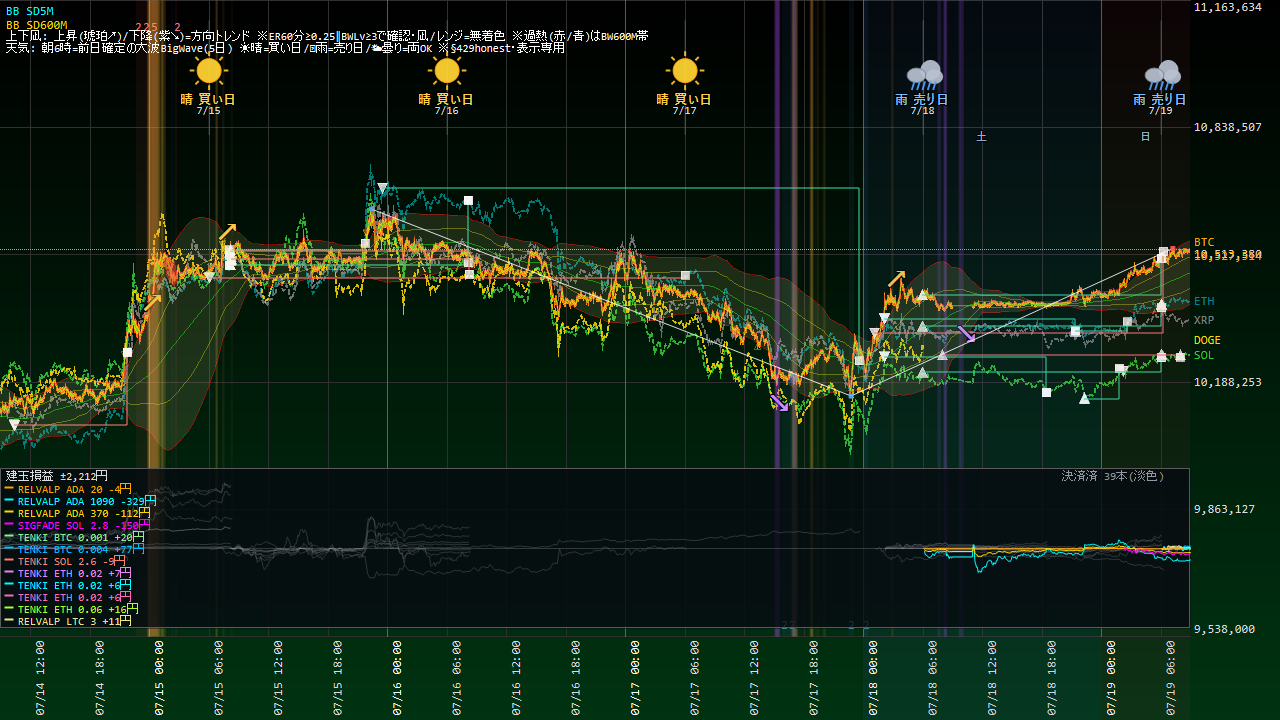
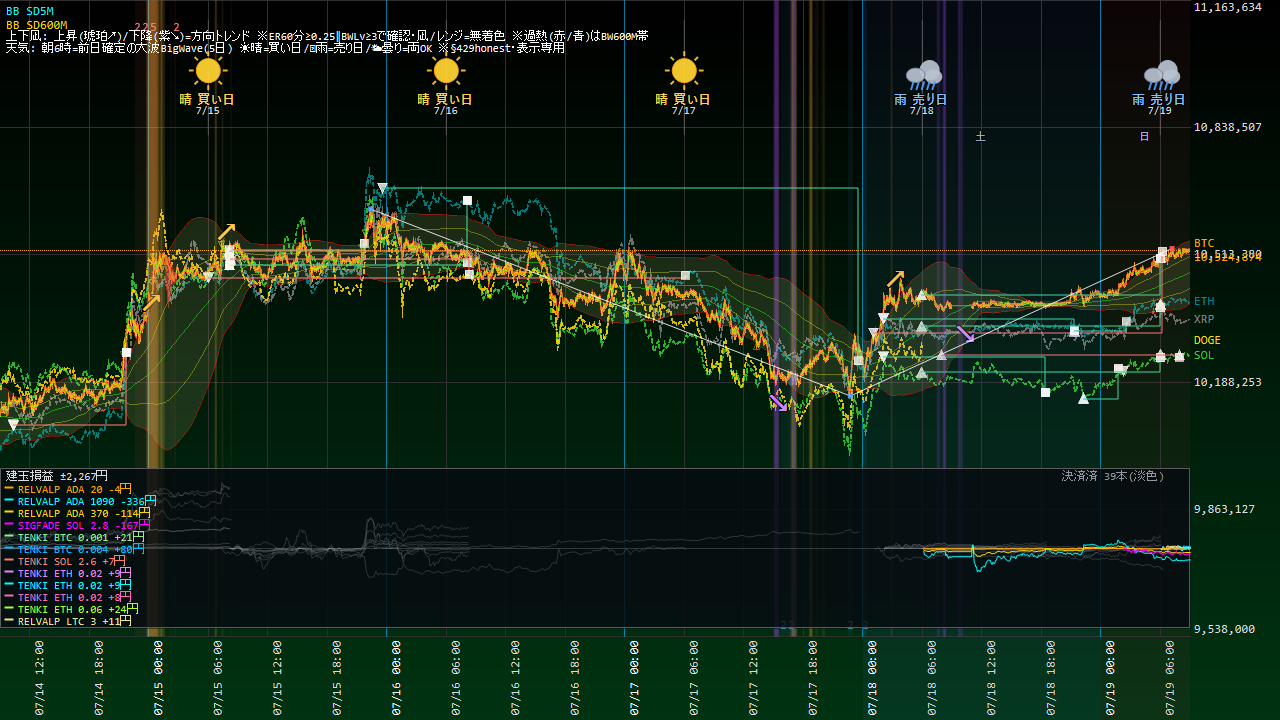
Coin100S 運用状況更新 07-19 09:05

diff --git a/coin100s-795hc4jfv8/index.html b/coin100s-795hc4jfv8/index.html
@@ -14,16 +14,16 @@ a{color:#60a5fa;text-decoration:none} a:hover{text-decoration:underline}
 .meta{color:#94a3b8;font-size:13px}</style>
 <script>setTimeout(function(){location.replace(location.pathname+"?t="+Date.now());},300000);</script></head><body>
 <h1>Coin100S ダッシュボード</h1>
-<p class="meta">スナップショット: 2026-07-19 08:58:50(自動リロード・最新化)</p>
+<p class="meta">スナップショット: 2026-07-19 09:04:50(自動リロード・最新化)</p>
 <div class="cards">
 <div class="card">建玉数<div class="v">14</div></div>
 <div class="card">本日損益<div class="v pos">+131円</div></div>
-<div class="card">評価損益<div class="v neg">-491円</div></div>
+<div class="card">評価損益<div class="v neg">-489円</div></div>
 </div>
 <h2>現在の建玉</h2>
-<table><tr><th>銘柄</th><th>側</th><th>数量</th><th>建値</th><th>含損益</th><th>レッグ</th></tr><tr><td>ADA_JPY</td><td>SELL</td><td>370</td><td>@27</td><td>-124円</td><td>RELVALP_SL700</td></tr><tr><td>ADA_JPY</td><td>SELL</td><td>1090</td><td>@27</td><td>-365円</td><td>RELVALP_SELL</td></tr><tr><td>ADA_JPY</td><td>SELL</td><td>20</td><td>@27</td><td>-5円</td><td>RELVALP_SELL</td></tr><tr><td>BTC_JPY</td><td>BUY</td><td>0.004</td><td>@10,508,065</td><td>+78円</td><td>TENKI5D_REV_BTC</td></tr><tr><td>BTC_JPY</td><td>BUY</td><td>0.001</td><td>@10,507,259</td><td>+20円</td><td>TENKI5D_REV_BTC</td></tr><tr><td>DOGE_JPY</td><td>BUY</td><td>4570</td><td>@12</td><td>-5円</td><td>TENKI5D_REV_DOGE</td></tr><tr><td>ETH_JPY</td><td>BUY</td><td>0.06</td><td>@301,910</td><td>+19円</td><td>TENKI5D_REV_ETH</td></tr><tr><td>ETH_JPY</td><td>BUY</td><td>0.02</td><td>@301,895</td><td>+6円</td><td>TENKI5D_REV_ETH</td></tr><tr><td>ETH_JPY</td><td>BUY</td><td>0.02</td><td>@301,872</td><td>+7円</td><td>TENKI5D_REV_ETH</td></tr><tr><td>ETH_JPY</td><td>BUY</td><td>0.02</td><td>@301,849</td><td>+7円</td><td>TENKI5D_REV_ETH</td></tr><tr><td>LTC_JPY</td><td>SELL</td><td>1</td><td>@7,635</td><td>+6円</td><td>RELVALP_SL700</td></tr><tr><td>LTC_JPY</td><td>SELL</td><td>3</td><td>@7,636</td><td>+21円</td><td>RELVALP_SELL</td></tr><tr><td>SOL_JPY</td><td>BUY</td><td>2.6</td><td>@12,258</td><td>0円</td><td>TENKI5D_REV_SOL</td></tr><tr><td>SOL_JPY</td><td>SELL</td><td>2.8</td><td>@12,201</td><td>-160円</td><td>SIGFADE_SOL</td></tr></table>
+<table><tr><th>銘柄</th><th>側</th><th>数量</th><th>建値</th><th>含損益</th><th>レッグ</th></tr><tr><td>ADA_JPY</td><td>SELL</td><td>370</td><td>@27</td><td>-124円</td><td>RELVALP_SL700</td></tr><tr><td>ADA_JPY</td><td>SELL</td><td>1090</td><td>@27</td><td>-365円</td><td>RELVALP_SELL</td></tr><tr><td>ADA_JPY</td><td>SELL</td><td>20</td><td>@27</td><td>-5円</td><td>RELVALP_SELL</td></tr><tr><td>BTC_JPY</td><td>BUY</td><td>0.004</td><td>@10,508,065</td><td>+67円</td><td>TENKI5D_REV_BTC</td></tr><tr><td>BTC_JPY</td><td>BUY</td><td>0.001</td><td>@10,507,259</td><td>+17円</td><td>TENKI5D_REV_BTC</td></tr><tr><td>DOGE_JPY</td><td>BUY</td><td>4570</td><td>@12</td><td>+13円</td><td>TENKI5D_REV_DOGE</td></tr><tr><td>ETH_JPY</td><td>BUY</td><td>0.06</td><td>@301,910</td><td>+22円</td><td>TENKI5D_REV_ETH</td></tr><tr><td>ETH_JPY</td><td>BUY</td><td>0.02</td><td>@301,895</td><td>+7円</td><td>TENKI5D_REV_ETH</td></tr><tr><td>ETH_JPY</td><td>BUY</td><td>0.02</td><td>@301,872</td><td>+8円</td><td>TENKI5D_REV_ETH</td></tr><tr><td>ETH_JPY</td><td>BUY</td><td>0.02</td><td>@301,849</td><td>+8円</td><td>TENKI5D_REV_ETH</td></tr><tr><td>LTC_JPY</td><td>SELL</td><td>1</td><td>@7,635</td><td>+6円</td><td>RELVALP_SL700</td></tr><tr><td>LTC_JPY</td><td>SELL</td><td>3</td><td>@7,636</td><td>+21円</td><td>RELVALP_SELL</td></tr><tr><td>SOL_JPY</td><td>BUY</td><td>2.6</td><td>@12,258</td><td>-11円</td><td>TENKI5D_REV_SOL</td></tr><tr><td>SOL_JPY</td><td>SELL</td><td>2.8</td><td>@12,201</td><td>-149円</td><td>SIGFADE_SOL</td></tr></table>
 <p><a href="status.html"><b>▶ 運用状況の詳細(チャート・本日の取引・レジーム)</b></a></p>
 <h2>日報一覧</h2>
 <table><tr><th>取引日</th><th>実現損益</th><th>総括</th></tr><tr><td><a href='reports/20260718_Coin100S日報.html'>2026-07-18</a></td><td class="pos">+0円</td><td class='meta'>実取引: 新規9件/決済8件、実現損益 +0円。警告/孤児/エラーなし＝健全。</td></tr><tr><td><a href='reports/20260717_Coin100S日報.html'>2026-07-17</a></td><td class="pos">+0円</td><td class='meta'>実取引: 新規3件/決済2件、実現損益 +0円。シグナル却下1件（最多: BW10M3_5M／トレンド方向ゲート(N分傾き下と不一致=逆張り方向のfade禁止)）。⚠警告/エラー 2件（要確認）。</td></tr><tr><td><a href='reports/20260716_Coin100S日報.html'>2026-07-16</a></td><td class="pos">+0円</td><td class='meta'>実取引: 新規0件/決済5件、実現損益 +0円。⚠警告/エラー 7件（要確認）。</td></tr><tr><td><a href='reports/20260715_Coin100S日報.html'>2026-07-15</a></td><td class="pos">+0円</td><td class='meta'>実取引: 新規6件/決済5件、実現損益 +0円。シグナル却下6件（最多: BW10M3_5M／トレンド方向ゲート(N分傾き上と不一致=逆張り方向のfade禁止)）。⚠警告/エラー 7件（要確認）。</td></tr><tr><td><a href='reports/20260714_Coin100S日報.html'>2026-07-14</a></td><td class="pos">+0円</td><td class='meta'>実取引: 新規6件/決済18件、実現損益 +0円。シグナル却下5件（最多: BW10M3_5M／トレンド方向ゲート(N分傾き上と不一致=逆張り方向のfade禁止)）。⚠警告/エラー 9件（要確認）。</td></tr><tr><td><a href='reports/20260713_Coin100S日報.html'>2026-07-13</a></td><td class="pos">+0円</td><td class='meta'>実取引: 新規5件/決済8件、実現損益 +0円。シグナル却下1件（最多: BW10M3_5M／トレンド方向ゲート(N分傾き上と不一致=逆張り方向のfade禁止)）。警告/孤児/エラーなし＝健全。</td></tr><tr><td><a href='reports/20260712_Coin100S日報.html'>2026-07-12</a></td><td class="pos">+0円</td><td class='meta'>実取引: 新規14件/決済6件、実現損益 +0円。シグナル却下5件（最多: BW10M3_5M／トレンド方向ゲート(N分傾き下と不一致=逆張り方向のfade禁止)）。⚠警告/エラー 2件（要確認）。</td></tr><tr><td><a href='reports/20260711_Coin100S日報.html'>2026-07-11</a></td><td class="pos">+0円</td><td class='meta'>実取引: 新規7件/決済6件、実現損益 +0円。⚠警告/エラー 52件（要確認）。</td></tr><tr><td><a href='reports/20260710_Coin100S日報.html'>2026-07-10</a></td><td class="pos">+0円</td><td class='meta'>実取引: 新規7件/決済6件、実現損益 +0円。シグナル却下6件（最多: BW10M3_5M／トレンド方向ゲート(N分傾き上と不一致=逆張り方向のfade禁止)）。警告/孤児/エラーなし＝健全。</td></tr><tr><td><a href='reports/20260709_Coin100S日報.html'>2026-07-09</a></td><td class="pos">+0円</td><td class='meta'>実取引: 新規8件/決済3件、実現損益 +0円。シグナル却下5件（最多: SD120M_5M／トレンド方向ゲート(N分傾き上と不一致=逆張り方向のfade禁止)）。警告/孤児/エラーなし＝健全。</td></tr><tr><td><a href='reports/20260708_Coin100S日報.html'>2026-07-08</a></td><td class="pos">+0円</td><td class='meta'>実取引: 新規2件/決済4件、実現損益 +0円。シグナル却下4件（最多: SD120M_5M／トレンド方向ゲート(N分傾き下と不一致=逆張り方向のfade禁止)）。警告/孤児/エラーなし＝健全。</td></tr><tr><td><a href='reports/20260707_Coin100S日報.html'>2026-07-07</a></td><td class="pos">+0円</td><td class='meta'>実取引: 新規8件/決済6件、実現損益 +0円。シグナル却下4件（最多: SD120M_5M／トレンド方向ゲート(N分傾き上と不一致=逆張り方向のfade禁止)）。⚠警告/エラー 258件（要確認）。</td></tr><tr><td><a href='reports/20260706_Coin100S日報.html'>2026-07-06</a></td><td class="pos">+0円</td><td class='meta'>実取引: 新規9件/決済6件、実現損益 +0円。シグナル却下9件（最多: SD120M_5M／トレンド方向ゲート(N分傾き上と不一致=逆張り方向のfade禁止)）。⚠警告/エラー 150件（要確認）。</td></tr><tr><td><a href='reports/20260705_Coin100S日報.html'>2026-07-05</a></td><td class="pos">+0円</td><td class='meta'>実取引: 新規8件/決済3件、実現損益 +0円。⚠警告/エラー 2件（要確認）。</td></tr><tr><td><a href='reports/20260704_Coin100S日報.html'>2026-07-04</a></td><td class="pos">+0円</td><td class='meta'>実取引: 新規1件/決済2件、実現損益 +0円。⚠警告/エラー 2件（要確認）。</td></tr><tr><td><a href='reports/20260703_Coin100S日報.html'>2026-07-03</a></td><td class="pos">+0円</td><td class='meta'>実取引: 新規5件/決済4件、実現損益 +0円。⚠警告/エラー 15件（要確認）。</td></tr><tr><td><a href='reports/20260702_Coin100S日報.html'>2026-07-02</a></td><td class="pos">+0円</td><td class='meta'>実取引: 新規7件/決済5件、実現損益 +0円。シグナル却下17件（最多: SD120M_5M／トレンド方向ゲート(N分傾き上と不一致=逆張り方向のfade禁止)）。⚠警告/エラー 26件（要確認）。</td></tr><tr><td><a href='reports/20260701_Coin100S日報.html'>2026-07-01</a></td><td class="pos">+0円</td><td class='meta'>実取引: 新規14件/決済8件、実現損益 +0円。シグナル却下14件（最多: SD120M_5M／ボラ軸ゲート(SDN%&amp;gt;N%=高ボラ/荒れレンジ)）。⚠警告/エラー 2件（要確認）。</td></tr><tr><td><a href='reports/20260630_Coin100S日報.html'>2026-06-30</a></td><td class="pos">+0円</td><td class='meta'>実取引: 新規0件/決済1件、実現損益 +0円。シグナル却下29件（最多: 微5M／当日枠N）。警告/孤児/エラーなし＝健全。</td></tr></table>
-<hr><p class="meta">更新: 2026-07-19 08:59:06 / 自動生成: tools/web_publish.py(§580)</p>
+<hr><p class="meta">更新: 2026-07-19 09:05:06 / 自動生成: tools/web_publish.py(§580)</p>
 </body></html>

diff --git a/coin100s-795hc4jfv8/status.html b/coin100s-795hc4jfv8/status.html
@@ -14,22 +14,22 @@ a{color:#60a5fa;text-decoration:none} a:hover{text-decoration:underline}
 .meta{color:#94a3b8;font-size:13px}</style>
 <script>setTimeout(function(){location.replace(location.pathname+"?t="+Date.now());},300000);</script></head><body>
 <h1>Coin100S 運用状況</h1>
-<p class="meta">スナップショット: 2026-07-19 08:58:50 / ページ生成: 2026-07-19 08:59:06(自動リロード・最新化) / <a href="index.html">目次へ</a></p>
+<p class="meta">スナップショット: 2026-07-19 09:04:50 / ページ生成: 2026-07-19 09:05:06(自動リロード・最新化) / <a href="index.html">目次へ</a></p>
 <div class="cards">
 <div class="card">建玉数<div class="v">14</div></div>
 <div class="card">本日損益<div class="v pos">+131円</div></div>
-<div class="card">評価損益<div class="v neg">-491円</div></div>
+<div class="card">評価損益<div class="v neg">-489円</div></div>
 </div>
 <h2>資産推移(直近30日)</h2>
-<img src="status_equity.png?t=0859" alt="equity">
+<img src="status_equity.png?t=0905" alt="equity">
 <h2>取引チャート(直近24h)</h2>
-<img src="status_chart.png?t=0859" alt="chart">
+<img src="status_chart.png?t=0905" alt="chart">
 <h2>建玉一覧</h2>
-<table><tr><th>銘柄</th><th>側</th><th>数量</th><th>建値</th><th>含損益</th><th>レッグ</th></tr><tr><td>ADA_JPY</td><td>SELL</td><td>370</td><td>@27</td><td>-124円</td><td>RELVALP_SL700</td></tr><tr><td>ADA_JPY</td><td>SELL</td><td>1090</td><td>@27</td><td>-365円</td><td>RELVALP_SELL</td></tr><tr><td>ADA_JPY</td><td>SELL</td><td>20</td><td>@27</td><td>-5円</td><td>RELVALP_SELL</td></tr><tr><td>BTC_JPY</td><td>BUY</td><td>0.004</td><td>@10,508,065</td><td>+78円</td><td>TENKI5D_REV_BTC</td></tr><tr><td>BTC_JPY</td><td>BUY</td><td>0.001</td><td>@10,507,259</td><td>+20円</td><td>TENKI5D_REV_BTC</td></tr><tr><td>DOGE_JPY</td><td>BUY</td><td>4570</td><td>@12</td><td>-5円</td><td>TENKI5D_REV_DOGE</td></tr><tr><td>ETH_JPY</td><td>BUY</td><td>0.06</td><td>@301,910</td><td>+19円</td><td>TENKI5D_REV_ETH</td></tr><tr><td>ETH_JPY</td><td>BUY</td><td>0.02</td><td>@301,895</td><td>+6円</td><td>TENKI5D_REV_ETH</td></tr><tr><td>ETH_JPY</td><td>BUY</td><td>0.02</td><td>@301,872</td><td>+7円</td><td>TENKI5D_REV_ETH</td></tr><tr><td>ETH_JPY</td><td>BUY</td><td>0.02</td><td>@301,849</td><td>+7円</td><td>TENKI5D_REV_ETH</td></tr><tr><td>LTC_JPY</td><td>SELL</td><td>1</td><td>@7,635</td><td>+6円</td><td>RELVALP_SL700</td></tr><tr><td>LTC_JPY</td><td>SELL</td><td>3</td><td>@7,636</td><td>+21円</td><td>RELVALP_SELL</td></tr><tr><td>SOL_JPY</td><td>BUY</td><td>2.6</td><td>@12,258</td><td>0円</td><td>TENKI5D_REV_SOL</td></tr><tr><td>SOL_JPY</td><td>SELL</td><td>2.8</td><td>@12,201</td><td>-160円</td><td>SIGFADE_SOL</td></tr></table>
+<table><tr><th>銘柄</th><th>側</th><th>数量</th><th>建値</th><th>含損益</th><th>レッグ</th></tr><tr><td>ADA_JPY</td><td>SELL</td><td>370</td><td>@27</td><td>-124円</td><td>RELVALP_SL700</td></tr><tr><td>ADA_JPY</td><td>SELL</td><td>1090</td><td>@27</td><td>-365円</td><td>RELVALP_SELL</td></tr><tr><td>ADA_JPY</td><td>SELL</td><td>20</td><td>@27</td><td>-5円</td><td>RELVALP_SELL</td></tr><tr><td>BTC_JPY</td><td>BUY</td><td>0.004</td><td>@10,508,065</td><td>+67円</td><td>TENKI5D_REV_BTC</td></tr><tr><td>BTC_JPY</td><td>BUY</td><td>0.001</td><td>@10,507,259</td><td>+17円</td><td>TENKI5D_REV_BTC</td></tr><tr><td>DOGE_JPY</td><td>BUY</td><td>4570</td><td>@12</td><td>+13円</td><td>TENKI5D_REV_DOGE</td></tr><tr><td>ETH_JPY</td><td>BUY</td><td>0.06</td><td>@301,910</td><td>+22円</td><td>TENKI5D_REV_ETH</td></tr><tr><td>ETH_JPY</td><td>BUY</td><td>0.02</td><td>@301,895</td><td>+7円</td><td>TENKI5D_REV_ETH</td></tr><tr><td>ETH_JPY</td><td>BUY</td><td>0.02</td><td>@301,872</td><td>+8円</td><td>TENKI5D_REV_ETH</td></tr><tr><td>ETH_JPY</td><td>BUY</td><td>0.02</td><td>@301,849</td><td>+8円</td><td>TENKI5D_REV_ETH</td></tr><tr><td>LTC_JPY</td><td>SELL</td><td>1</td><td>@7,635</td><td>+6円</td><td>RELVALP_SL700</td></tr><tr><td>LTC_JPY</td><td>SELL</td><td>3</td><td>@7,636</td><td>+21円</td><td>RELVALP_SELL</td></tr><tr><td>SOL_JPY</td><td>BUY</td><td>2.6</td><td>@12,258</td><td>-11円</td><td>TENKI5D_REV_SOL</td></tr><tr><td>SOL_JPY</td><td>SELL</td><td>2.8</td><td>@12,201</td><td>-149円</td><td>SIGFADE_SOL</td></tr></table>
 <h2>実現決済履歴(直近15件・OrderId単位)</h2>
 <table><tr><th>決済時刻</th><th>レッグ</th><th>銘柄</th><th>実現損益</th></tr><tr><td>07-19 08:01</td><td>TENKI5D_REV_DOGE</td><td>DOGE</td><td class="neg">-41円</td></tr><tr><td>07-19 06:16</td><td>SIGFADE_BTC</td><td>BTC</td><td class="neg">-627円</td></tr><tr><td>07-19 06:03</td><td>TENKI5D_REV_BTC</td><td>BTC</td><td class="pos">+92円</td></tr><tr><td>07-19 06:03</td><td>TENKI5D_REV_ETH</td><td>ETH</td><td class="pos">+212円</td></tr><tr><td>07-19 06:03</td><td>TENKI5D_REV_SOL</td><td>SOL</td><td class="pos">+128円</td></tr><tr><td>07-19 06:03</td><td>TENKI5D_REV_BTC</td><td>BTC</td><td class="pos">+367円</td></tr><tr><td>07-19 02:41</td><td>SIGFADE_ETH</td><td>ETH</td><td class="pos">+103円</td></tr><tr><td>07-19 01:53</td><td>SIGFADE_SOL</td><td>SOL</td><td class="pos">+9円</td></tr><tr><td>07-19 01:53</td><td>SIGFADE_SOL</td><td>SOL</td><td class="pos">+9円</td></tr><tr><td>07-18 21:23</td><td>SIGFADE_ETH</td><td>ETH</td><td class="pos">+114円</td></tr><tr><td>07-18 21:23</td><td>SIGFADE_ETH</td><td>ETH</td><td class="pos">+11円</td></tr><tr><td>07-18 18:31</td><td>SIGFADE_SOL</td><td>SOL</td><td class="pos">+119円</td></tr><tr><td>07-18 18:31</td><td>SIGFADE_SOL</td><td>SOL</td><td class="pos">+11円</td></tr><tr><td>07-18 18:31</td><td>SIGFADE_SOL</td><td>SOL</td><td class="pos">+200円</td></tr><tr><td>07-17 23:37</td><td>RELVALP_SL700</td><td>ETH</td><td class="pos">+497円</td></tr></table>
 <!-- §799c 「本取引日の実取引(6:00起点)」テーブルは公開ページから削除(ユーザー指示2026-07-15・数量/指値まで晒す情報漏れ)。建玉/実現損益は許可・実発注の生取引明細は非公開 -->
 <h2>現在レジーム(3軸・§570c)</h2>
-<ul><li>アルト対BTC 5日: <b>-151bps</b>(アルト劣後=RELVAL順風)</li><li>BTC ER240m: <b>0.094</b>(閾値0.25→レンジ(fade順風/BWTRD逆風))</li><li>BTC実現ボラ240m: <b>2.92</b> bps/分</li></ul>
+<ul><li>アルト対BTC 5日: <b>-151bps</b>(アルト劣後=RELVAL順風)</li><li>BTC ER240m: <b>0.093</b>(閾値0.25→レンジ(fade順風/BWTRD逆風))</li><li>BTC実現ボラ240m: <b>2.89</b> bps/分</li></ul>
 <hr><p class="meta">自動生成: tools/web_publish.py(§580・読み取り専用)。売買判断はアプリ本体。</p>
 </body></html>
